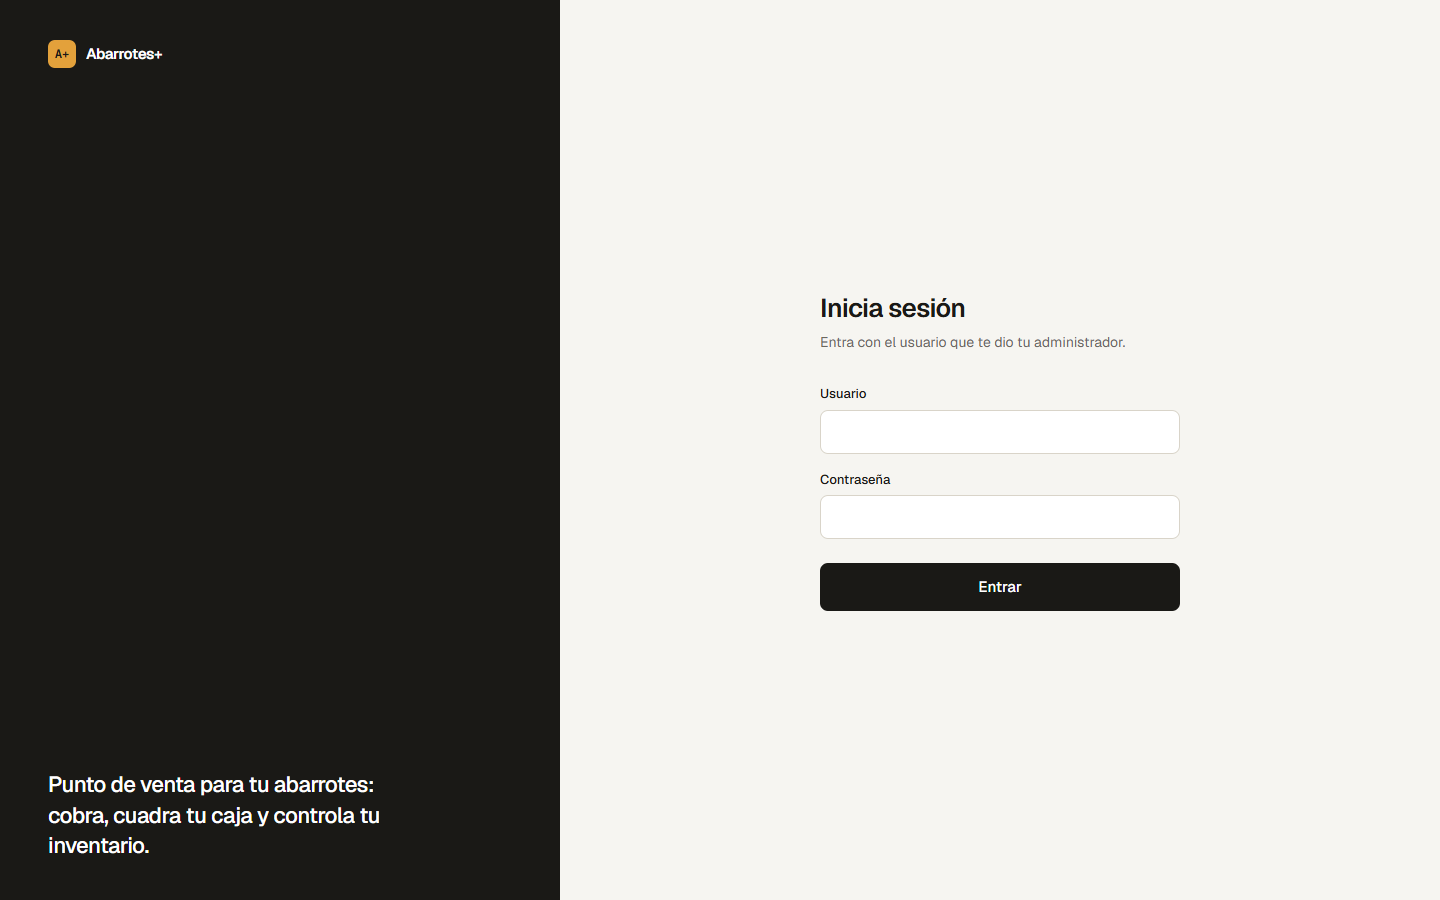
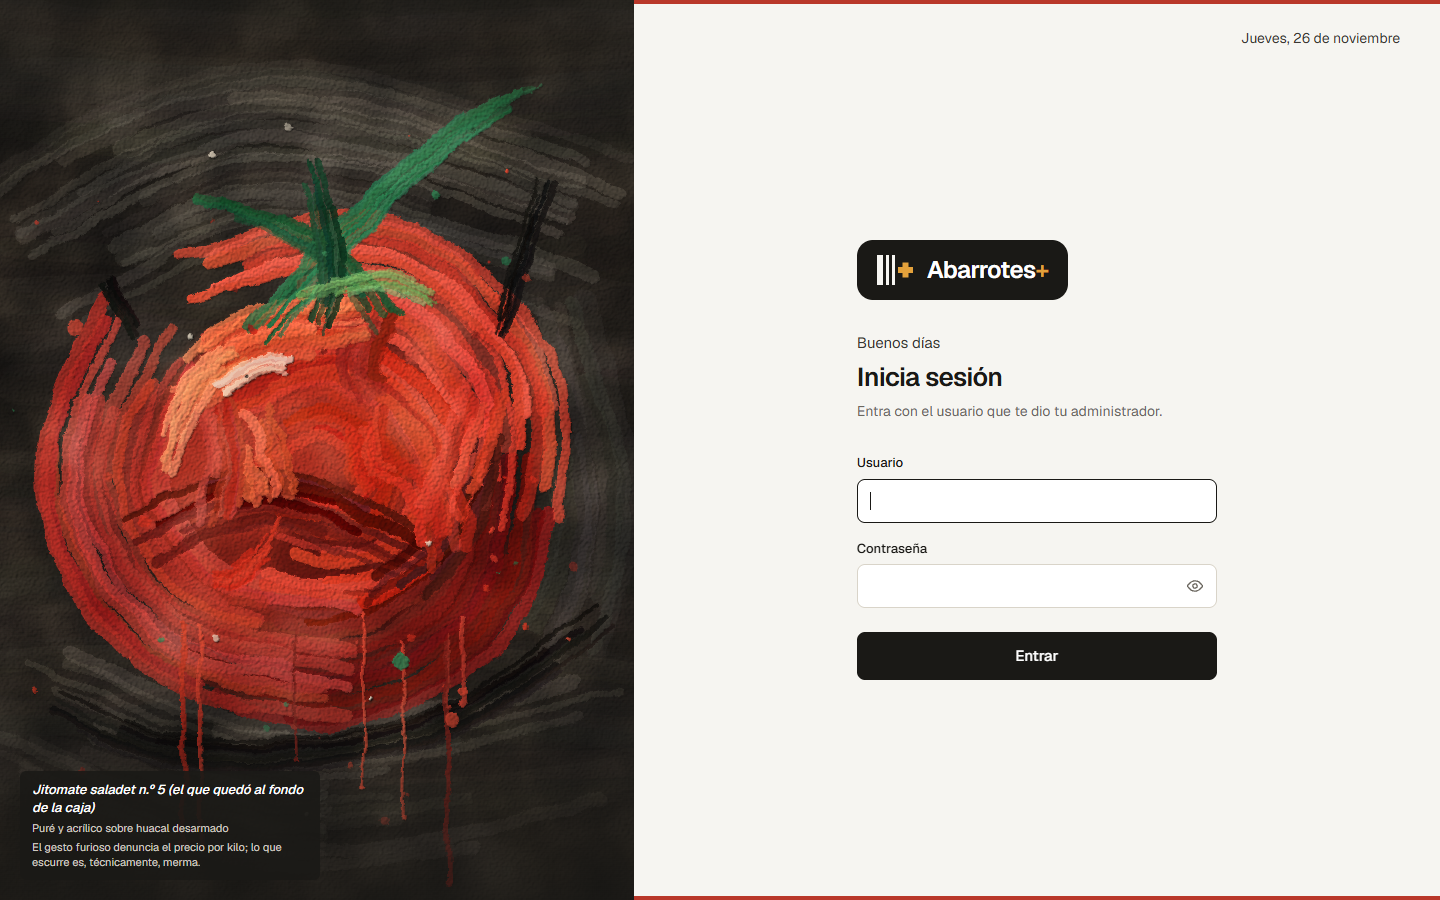
docs(diagramas): casos de uso y capturas del Sprint 4 [D-06]
- casos-de-uso-sprint-4.md: diagrama, CU-14 y CU-16 y el ajuste T-37.
- Capturas P-12 (selector del jefe), P-13 (sucursales), P-14 (teléfono), A-06
  (sucursal suspendida) y login actualizado al rediseño.

Refs #66

diff --git a/docs/diagramas/casos-de-uso-sprint-4.md b/docs/diagramas/casos-de-uso-sprint-4.md
@@ -1,0 +1,93 @@
+# Casos de uso · Sprint 4
+
+**Responsable documental:** Luis David Sosa Fernández (D-06, reasignada de Gonzalo el 26 de noviembre de 2026). **Fecha:** 26 de noviembre de 2026.
+
+Este documento cubre las dos historias del Sprint 4 (16 al 29 de noviembre). Continúa a [casos-de-uso.md](casos-de-uso.md) (Sprint 1 y Sprint 2) y a [casos-de-uso-sprint-3.md](casos-de-uso-sprint-3.md). Describe el comportamiento acordado en el [backlog](../02-backlog.md); el estado de cada tarea se consulta en el [tablero](https://github.com/users/notNorthStar/projects/1/views/5).
+
+**Estado al 26 de noviembre:** las dos historias están integradas en `develop`: HU-14 (#70) y HU-16 (#87).
+
+## Diagrama
+
+Igual que en los sprints anteriores, Mermaid representa los actores y sus asociaciones con un diagrama de flujo. Las dos historias del Sprint 4 son del jefe; el cajero y el administrador aparecen porque CU-16 los afecta al suspender su sucursal.
+
+```mermaid
+flowchart LR
+  C["Actor: Cajero"]
+  A["Actor: Administrador"]
+  J["Actor: Jefe"]
+  A -->|"hereda permisos de"| C
+  J -->|"hereda permisos de"| A
+
+  subgraph POS["Sistema Abarrotes+ · Sprint 4"]
+    U14(["CU-14 / HU-14: Operar en cualquier sucursal como administrador"])
+    U16(["CU-16 / HU-16: Gestionar sucursales"])
+    U01(["CU-01: Iniciar sesión"])
+  end
+
+  J --- U14
+  J --- U16
+  C --- U01
+  A --- U01
+  U16 -.->|"bloquea a los usuarios de una sucursal inactiva en"| U01
+```
+
+![Diagrama de casos de uso del Sprint 4](img/casos-de-uso-sprint-4.png)
+
+CU-14 no agrega funciones nuevas: permite que el jefe use todos los casos de uso del administrador (CU-02 a CU-13) sobre la sucursal que elija. CU-16 cambia el resultado de CU-01 para los usuarios de una sucursal suspendida o eliminada.
+
+## Pantallas y evidencia visual
+
+Las capturas son de la aplicación real con datos locales de ejemplo, tomadas el 26 de noviembre de 2026 a 1440×900 (las de teléfono a 390×844). El [catálogo de prototipos](../prototipos/README.md) explica cómo reproducirlas.
+
+| Referencia | Ruta de la aplicación | Pantalla fuente | Capturas |
+|---|---|---|---|
+| P-12 | Barra superior, en cualquier ruta | [Layout](../../apps/web/src/components/Layout.tsx) | [Inventario de Centro](../prototipos/img/jefe-inventario-centro.png) · [Venta en Norte](../prototipos/img/jefe-venta-norte.png) |
+| P-13 | `/sucursales` | [Sucursales](../../apps/web/src/features/sucursales/SucursalesPage.tsx) | [Lista y alta](../prototipos/img/sucursales.png) · [Confirmar suspensión](../prototipos/img/sucursales-confirmar-suspender.png) |
+| A-06 / P-01 | `/login` | [Acceso](../../apps/web/src/pages/Login.tsx) | [Usuario de sucursal suspendida](../prototipos/img/alerta-sucursal-suspendida.png) |
+
+## CU-14 · Operar en cualquier sucursal como administrador
+
+**Historia / responsable de implementación:** HU-14 · Sosa (PR #70). **Actor principal:** jefe. **Pantalla:** P-12 y todas las del administrador.
+
+**Objetivo:** que el jefe atienda cualquier sucursal cuando falle su administrador.
+
+**Precondiciones:** sesión de jefe y al menos una sucursal activa.
+
+**Flujo principal:**
+1. El jefe inicia sesión; la barra superior muestra el selector con las sucursales activas.
+2. Elige una sucursal. El sistema la recuerda al navegar y al recargar.
+3. Opera como administrador: cajeros, productos, inventario, mermas, visitas de proveedores, reporte semanal y caja. Cada petición lleva `?sucursalId=` de la sucursal elegida.
+4. Cambia de sucursal en el selector; las pantallas se recargan con los datos de la nueva.
+
+**Alternos:** si la sucursal guardada ya no está activa, el selector toma la primera activa. El servidor rechaza una sucursal que no existe (404). El administrador y el cajero no ven el selector y siguen operando solo en su sucursal, aunque alteren la consulta.
+
+**Postcondiciones:** las operaciones quedan registradas en la sucursal elegida, con el jefe como responsable. **Trazabilidad:** CA1–CA5.
+
+## CU-16 · Gestionar sucursales
+
+**Historia / responsable de implementación:** HU-16 · Miguel (PR #87). **Actor principal:** jefe. **Pantalla:** P-13.
+
+**Objetivo:** llevar el control de las sucursales activas e inactivas del negocio.
+
+**Precondiciones:** sesión de jefe.
+
+**Flujo principal:**
+1. El jefe abre Sucursales y ve la lista con el estado de cada una.
+2. Para crear una, captura el nombre (obligatorio) y la dirección (opcional). La sucursal se crea activa y aparece en el selector de CU-14.
+3. Para suspender una, confirma la acción. Sus usuarios ya no pueden iniciar sesión y sus sesiones abiertas se cortan en la siguiente petición.
+4. Puede reactivarla; sus usuarios vuelven a entrar.
+
+**Alternos:** eliminar es lógico (`estado = ELIMINADO`): la sucursal desaparece de la lista y del selector y sus usuarios ya no entran. Se puede suspender o eliminar con cajas abiertas, que se conservan tal como están (decisión del PO del 25 de noviembre). Un administrador o un cajero no tienen acceso. Un usuario de una sucursal suspendida que intenta entrar ve «Tu sucursal no está activa. Contacta al jefe.» (A-06).
+
+**Postcondiciones:** el inventario, las ventas, los turnos y los movimientos de la sucursal se conservan. No cambia el modelo de datos. **Trazabilidad:** CA1–CA5.
+
+## Ajuste del 26 de noviembre (T-37)
+
+Al comparar el backlog con lo entregado se cerraron dos huecos (PR #90):
+
+- **CU-05 · Cerrar caja (HU-05 CA5):** el comentario ahora se exige en todo cierre, no solo cuando hay diferencia.
+- **CU-12 y CU-15 · Suspender cuentas:** igual que en CU-16, la sesión abierta de una cuenta suspendida o eliminada se corta en su siguiente petición y la aplicación vuelve al acceso.
+
+## Mantenimiento
+
+Si cambia el diagrama, volver a exportar `img/casos-de-uso-sprint-4.png`.

diff --git a/docs/prototipos/README.md b/docs/prototipos/README.md
@@ -22,6 +22,11 @@ Las imágenes de este catálogo son capturas de las pantallas reales de Abarrote
 | P-09 | Reporte semanal · `/reportes` | HU-13 | [reporte.png](img/reporte.png) | Semana de lunes a domingo, ingresos por forma de pago, ventas con su responsable y exportación a PDF. |
 | P-10 | Cuentas de administrador · `/administradores` | HU-15 | [administradores.png](img/administradores.png) | Selector de sucursal, alta, estado de cuenta y acciones de gestión para el jefe. |
 | P-11 | Visitas de proveedores · `/proveedores` | HU-07 | [proveedores.png](img/proveedores.png) | Registro de visitas del administrador y lista por fecha y proveedor con filtros de próximas y pasadas. |
+| P-12 | Selector de sucursal del jefe · barra superior | HU-14 | [jefe-inventario-centro.png](img/jefe-inventario-centro.png) · [jefe-venta-norte.png](img/jefe-venta-norte.png) | El jefe elige la sucursal y opera en ella: inventario de Centro y venta en Norte con búsqueda en vivo. |
+| P-13 | Sucursales · `/sucursales` | HU-16 | [sucursales.png](img/sucursales.png) · [sucursales-confirmar-suspender.png](img/sucursales-confirmar-suspender.png) | Alta, lista con estado, suspender, reactivar y eliminar; confirmación con Enter o Esc. |
+| P-14 | Teléfono · `/` y `/venta` | Diseño responsivo | [movil-inicio.png](img/movil-inicio.png) · [movil-venta.png](img/movil-venta.png) | La misma aplicación a 390×844: menú lateral plegable, tarjetas apiladas y venta con búsqueda en vivo. |
+
+Las pantallas P-12 a P-14 son del Sprint 4 (D-06, Sosa, reasignada de Gonzalo el 26 de noviembre). Se capturaron el 26 de noviembre de 2026; ese día también se actualizó [login.png](img/login.png) al acceso rediseñado (logotipo, galería de arte y mostrar contraseña, T-35 y T-36). Se relacionan con [casos-de-uso-sprint-4.md](../diagramas/casos-de-uso-sprint-4.md).
 
 Las pantallas P-08 a P-11 son del Sprint 3 (D-04, Sosa). Se capturaron el 9 de noviembre de 2026 con el mismo procedimiento, y se relacionan con [casos-de-uso-sprint-3.md](../diagramas/casos-de-uso-sprint-3.md).
 
@@ -34,6 +39,7 @@ Las pantallas P-08 a P-11 son del Sprint 3 (D-04, Sosa). Se capturaron el 9 de n
 | A-03 / P-05 | Capturar un efectivo contado distinto del esperado en el cierre. | Sobrante o faltante y solicitud de comentario para explicar la diferencia. | [alerta-diferencia-corte.png](img/alerta-diferencia-corte.png) |
 | A-04 / P-01 | Entrar con la cuenta de ejemplo `suspendido` y su contraseña válida. | Acceso bloqueado por cuenta suspendida. | [alerta-usuario-suspendido.png](img/alerta-usuario-suspendido.png) |
 | A-05 / P-08 | Registrar una merma mayor que la existencia del producto. | «La cantidad supera la existencia disponible»; el inventario no cambia. | [alerta-merma-sin-existencia.png](img/alerta-merma-sin-existencia.png) |
+| A-06 / P-01 | Entrar con un cajero de una sucursal suspendida (en la captura, Poniente). | «Tu sucursal no está activa. Contacta al jefe.»; no se inicia sesión. | [alerta-sucursal-suspendida.png](img/alerta-sucursal-suspendida.png) |
 
 ## Cómo reproducir las capturas
 
@@ -47,5 +53,7 @@ Usar la base local con datos de ejemplo. Los usuarios de ejemplo comparten la co
 6. En Caja, capturar efectivo contado distinto del esperado; registrar A-03 antes de cerrar. Así se conserva el turno para seguir la demostración.
 7. Capturar P-04, P-06 y P-07 con `admin.centro`, que tiene acceso al inventario y a la gestión de cajeros.
 8. Sprint 3: con `cajero1`, en Registrar merma buscar «Coca», elegir Coca-Cola 600 ml, capturar 2 piezas como caducado y tomar P-08 sin confirmar. Para A-05, cambiar la cantidad a 999 y confirmar. Con `admin.centro` capturar P-09 y, después de registrar una visita de Bimbo para el 12 de noviembre, P-11; con `jefe`, P-10.
+
+9. Sprint 4: con `jefe`, elegir Centro en el selector y abrir Inventario (P-12); elegir Norte, abrir Venta y escribir «Coca». En Sucursales capturar la lista (P-13) y, con Suspender de Sur, el diálogo de confirmación; cancelar con Esc. Para A-06, crear una sucursal con un cajero, suspenderla e intentar entrar con ese cajero. Para P-14, entrar como `cajero1` a 390×844.
 
 Las capturas se guardan en `img/` y se relacionan con las nueve descripciones en [casos-de-uso.md](../diagramas/casos-de-uso.md). No incluyen contraseñas visibles, tokens ni datos ajenos a los ejemplos locales.

diff --git a/docs/diagramas/README.md b/docs/diagramas/README.md
@@ -3,6 +3,7 @@
 - `clases.md` — diagrama de clases / ER (Sosa) → `img/clases.png`, `img/er.png`
 - `casos-de-uso.md` — casos de uso y descripciones del Sprint 1 + 2 (Miguel) → `img/casos-de-uso.png`
 - `casos-de-uso-sprint-3.md` — casos de uso y descripciones del Sprint 3 (Sosa, D-04) → `img/casos-de-uso-sprint-3.png`
+- `casos-de-uso-sprint-4.md` — casos de uso y descripciones del Sprint 4 (Sosa, D-06) → `img/casos-de-uso-sprint-4.png`
 - burndown / burnup: en `docs/scrum/burndown.md` (Sosa) → `img/burndown.png`, `img/burnup.png`
 
 ## Exportar a imagen
